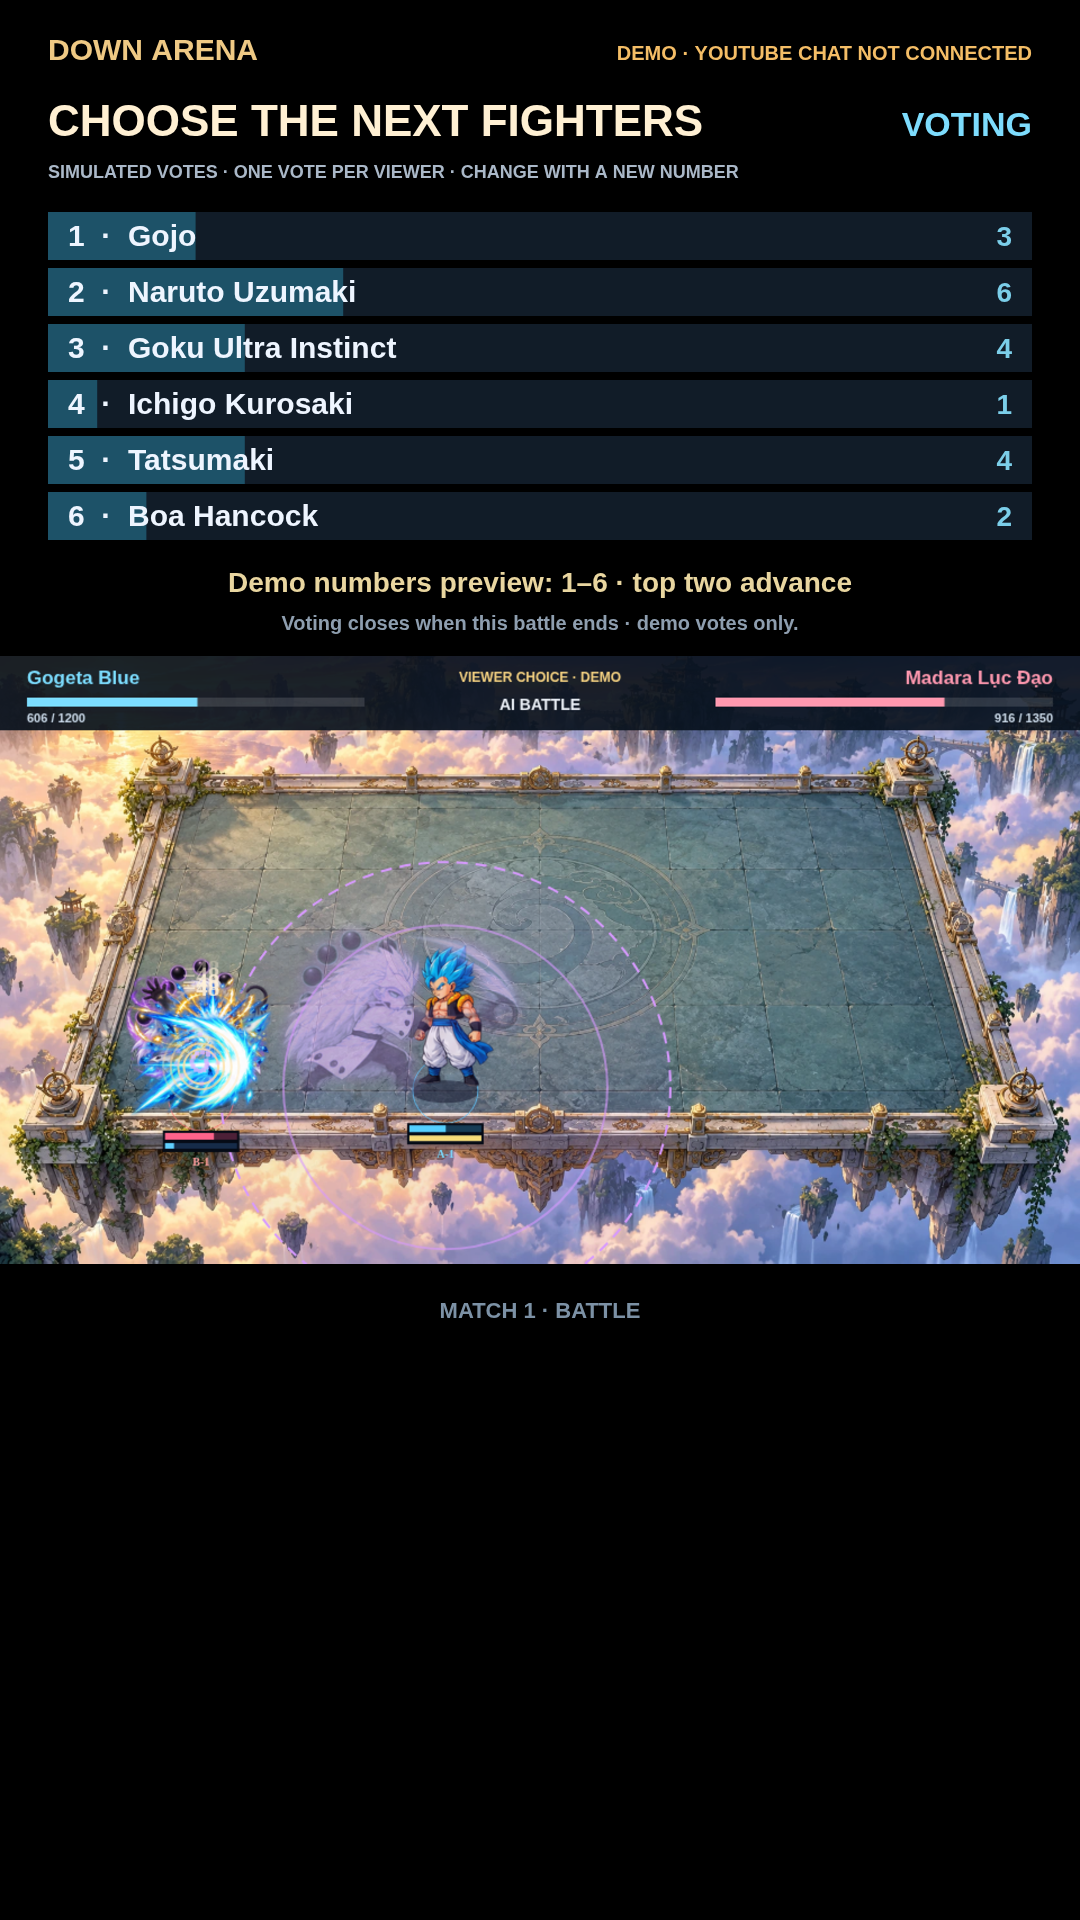
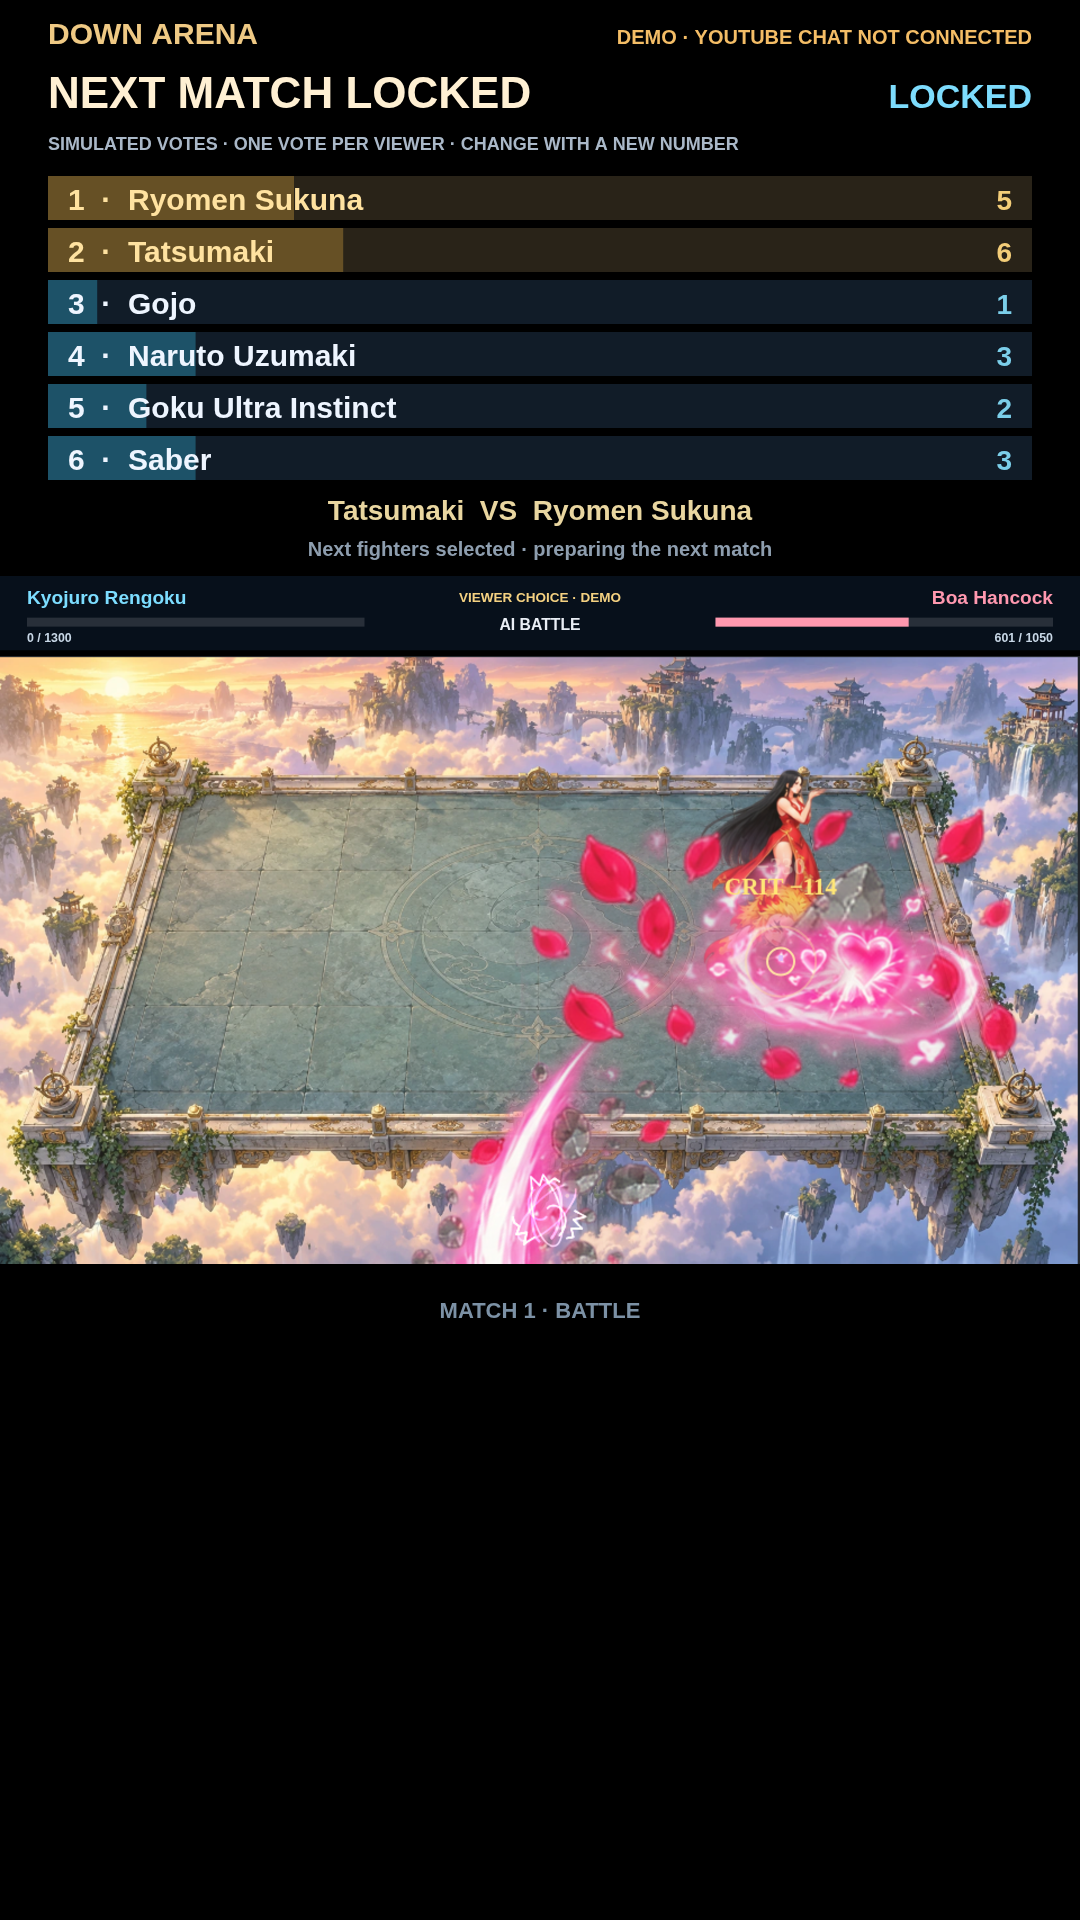
Move voting panel up and put fighter health above the arena

diff --git a/dist/src/app.js b/dist/src/app.js
@@ -147,7 +147,7 @@ function render(){if(tournament.portrait)dialogueCtx.clearRect(0,0,960,540);cons
  if(!scene||resultAge<.32)for(const shot of duel.shots)drawShot(shot,$('vfx').checked);
  if($('vfx').checked)for(const burst of bursts)drawBurst(burst);
 
- for(const e of fx){ctx.globalAlpha=Math.max(0,e.life/.65);ctx.font='bold 21px Segoe UI';ctx.textAlign='center';ctx.fillStyle=e.healing?'#7dff9c':e.critical?'#ffe36b':e.blocked?'#83dfff':'#fff1d8';ctx.fillText(e.label?e.value:(e.critical?'CRIT −':e.blocked?'BLOCK −':'−')+e.value,e.x,e.y-85-(.65-e.life)*45);circle(e.x,e.y-25,12+(.65-e.life)*50,'#ffdfa0',2);}ctx.globalAlpha=1;for(const p of particles){ctx.globalAlpha=p.life/p.max;ctx.fillStyle=p.color;ctx.fillRect(p.x-2,p.y-2,4,4);}ctx.globalAlpha=1;if(!scene||resultAge<FINISH_FREEZE_SECONDS)drawFighterBars(ctx,duel);ctx.restore();if(!scene){drawMadaraEntrance(ctx,images,renderDuel,{width:960,height:canvas.height,offsetY:tournament.portrait?PORTRAIT_SCENE_OFFSET:0});drawNarutoV2Cinematic(screenCtx,images,renderDuel,$('ultimateReduce').checked);drawGogetaBlueCinematic(screenCtx,images,renderDuel);drawMadaraCinematic(screenCtx,images,renderDuel,$('ultimateReduce').checked);drawRengokuCinematic(screenCtx,images,renderDuel,$('ultimateReduce').checked);drawSukunaCinematic(screenCtx,images,renderDuel);drawGojoCinematic(screenCtx,images,renderDuel,$('ultimateReduce').checked);drawBoaCinematic(screenCtx,images,renderDuel,$('ultimateReduce').checked);drawTatsuCinematic(screenCtx,images,renderDuel,$('ultimateReduce').checked);drawSaberCinematic(screenCtx,images,renderDuel,$('ultimateReduce').checked);drawUltraCinematic(screenCtx,images,renderDuel,$('ultimateReduce').checked);drawJinwooCinematic(screenCtx,images,renderDuel,$('ultimateReduce').checked);drawIchigoCinematic(screenCtx,images,renderDuel,$('ultimateReduce').checked);drawTeamUltimateCinematic(screenCtx,images,renderDuel,names,$('ultimateReduce').checked);}if(scene&&!tournament.portrait)drawVictoryScreen(ctx,scene,victory,names);}
+ for(const e of fx){ctx.globalAlpha=Math.max(0,e.life/.65);ctx.font='bold 21px Segoe UI';ctx.textAlign='center';ctx.fillStyle=e.healing?'#7dff9c':e.critical?'#ffe36b':e.blocked?'#83dfff':'#fff1d8';ctx.fillText(e.label?e.value:(e.critical?'CRIT −':e.blocked?'BLOCK −':'−')+e.value,e.x,e.y-85-(.65-e.life)*45);circle(e.x,e.y-25,12+(.65-e.life)*50,'#ffdfa0',2);}ctx.globalAlpha=1;for(const p of particles){ctx.globalAlpha=p.life/p.max;ctx.fillStyle=p.color;ctx.fillRect(p.x-2,p.y-2,4,4);}ctx.globalAlpha=1;if(!tournament.voteMode&&(!scene||resultAge<FINISH_FREEZE_SECONDS))drawFighterBars(ctx,duel);ctx.restore();if(!scene){drawMadaraEntrance(ctx,images,renderDuel,{width:960,height:canvas.height,offsetY:tournament.portrait?PORTRAIT_SCENE_OFFSET:0});drawNarutoV2Cinematic(screenCtx,images,renderDuel,$('ultimateReduce').checked);drawGogetaBlueCinematic(screenCtx,images,renderDuel);drawMadaraCinematic(screenCtx,images,renderDuel,$('ultimateReduce').checked);drawRengokuCinematic(screenCtx,images,renderDuel,$('ultimateReduce').checked);drawSukunaCinematic(screenCtx,images,renderDuel);drawGojoCinematic(screenCtx,images,renderDuel,$('ultimateReduce').checked);drawBoaCinematic(screenCtx,images,renderDuel,$('ultimateReduce').checked);drawTatsuCinematic(screenCtx,images,renderDuel,$('ultimateReduce').checked);drawSaberCinematic(screenCtx,images,renderDuel,$('ultimateReduce').checked);drawUltraCinematic(screenCtx,images,renderDuel,$('ultimateReduce').checked);drawJinwooCinematic(screenCtx,images,renderDuel,$('ultimateReduce').checked);drawIchigoCinematic(screenCtx,images,renderDuel,$('ultimateReduce').checked);drawTeamUltimateCinematic(screenCtx,images,renderDuel,names,$('ultimateReduce').checked);}if(scene&&!tournament.portrait)drawVictoryScreen(ctx,scene,victory,names);}
 const tournament=new VotingArenaUI({$,names,unlock:()=>{audio.unlock();music.unlock();},setLiveView:active=>document.body.classList.toggle('live-view',active),setPortraitView:active=>document.body.classList.toggle('portrait-view',active),setVoteView:active=>{document.body.classList.toggle('vote-view',active);document.body.classList.toggle('portrait-view',active||!!(tournament.clean&&tournament.portrait));},settings:()=>({stats:normalizeStats(appliedStats),seed:$('seed').value||'DOWN-001',arenaScale,hpMultiplier,teamUltimateEnabled}),reset,toggleBattle,duel:()=>duel,resultAge:()=>resultAge,ready:()=>assetsReady,stop:()=>{audio.stop();music.pause();running=false;acc=0;},portraitURL:id=>'assets/ui/portraits/'+id+'.webp'});
 function loop(t){const elapsed=Math.min((t-last)/1000||0,.1);last=t;
  const visualDt=(running?elapsed*Number($('speed').value):duel.result?(tournament.live&&tournament.paused?0:resultAge<FINISH_FREEZE_SECONDS?0:elapsed*.65):0);visualClock+=visualDt;for(const ghost of ghosts)ghost.life-=visualDt;ghosts=ghosts.filter(g=>g.life>0);for(const burst of bursts)burst.life-=visualDt;bursts=bursts.filter(b=>b.life>0);

diff --git a/dist/src/render/viewer-vote.js b/dist/src/render/viewer-vote.js
@@ -1,27 +1,27 @@
-export const VOTE_LAYOUT=Object.freeze({width:540,height:960,arenaY:328,arenaHeight:540*9/16});
+export const VOTE_LAYOUT=Object.freeze({width:540,height:960,hudY:288,hudHeight:40,arenaY:328,arenaHeight:540*9/16});
 function text(ctx,value,x,y,size,color='#e9eef5',align='left',width=490){ctx.fillStyle=color;ctx.font=`600 ${size}px Segoe UI,Arial`;ctx.textAlign=align;ctx.fillText(value,x,y,width);}
 export function drawVoteBroadcast(ctx,u,scene){ctx.save();ctx.fillStyle='#000';ctx.fillRect(0,0,540,960);const v=u.ballot;
- text(ctx,'DOWN ARENA',24,30,15,'#efc984');text(ctx,'DEMO · YOUTUBE CHAT NOT CONNECTED',516,30,10,'#f4bd66','right',360);
- text(ctx,v?.locked?'NEXT MATCH LOCKED':'CHOOSE THE NEXT FIGHTERS',24,68,22,'#fff0d3');
- text(ctx,v?.locked?'LOCKED':'VOTING',516,68,17,'#7ddcfd','right',95);
- text(ctx,'SIMULATED VOTES · ONE VOTE PER VIEWER · CHANGE WITH A NEW NUMBER',24,89,9,'#aab8c8');
+ text(ctx,'DOWN ARENA',24,22,15,'#efc984');text(ctx,'DEMO · YOUTUBE CHAT NOT CONNECTED',516,22,10,'#f4bd66','right',360);
+ text(ctx,v?.locked?'NEXT MATCH LOCKED':'CHOOSE THE NEXT FIGHTERS',24,54,22,'#fff0d3');
+ text(ctx,v?.locked?'LOCKED':'VOTING',516,54,17,'#7ddcfd','right',95);
+ text(ctx,'SIMULATED VOTES · ONE VOTE PER VIEWER · CHANGE WITH A NEW NUMBER',24,75,9,'#aab8c8');
  const rows=v?.rows||[],total=v?.votes.size||0;
  for(const [i,row] of rows.entries()){
-  const y=106+i*28,win=v?.winners?.includes(row.id),color=win?'#f3cd78':'#7bcee9';
-  ctx.fillStyle=win?'#292318':'#111c28';ctx.fillRect(24,y,492,24);
-  ctx.fillStyle=win?'#665025':'#1d5268';ctx.fillRect(24,y,492*(total?row.count/total:0),24);
+  const y=88+i*26,win=v?.winners?.includes(row.id),color=win?'#f3cd78':'#7bcee9';
+  ctx.fillStyle=win?'#292318':'#111c28';ctx.fillRect(24,y,492,22);
+  ctx.fillStyle=win?'#665025':'#1d5268';ctx.fillRect(24,y,492*(total?row.count/total:0),22);
   text(ctx,`${row.number}  ·  ${row.name}`,34,y+17,15,win?'#ffe2a0':'#eef5ff','left',390);
   text(ctx,String(row.count),506,y+17,14,color,'right',55);
  }
  const status=!v?'Start Live Arena to open voting.':u.paused?'PAUSED':v?.locked?`${u.h.names[v.winners[0]]}  VS  ${u.h.names[v.winners[1]]}`:'Demo numbers preview: 1–'+rows.length+' · top two advance';
- text(ctx,status,270,296,14,'#e9d6a0','center',492);
- text(ctx,v?.locked?(u.lastDraw?'Draw: current pair rematches; voting reopens':total?'Next fighters selected · preparing the next match':'No votes: seeded random tiebreak'):'Voting closes when this battle ends · demo votes only.',270,315,10,'#8e9eaf','center',492);
- if(scene&&u.active)ctx.drawImage(scene,0,VOTE_LAYOUT.arenaY,540,VOTE_LAYOUT.arenaHeight);else text(ctx,'START LIVE ARENA',270,490,23,'#8faac0','center');
+ text(ctx,status,270,260,14,'#e9d6a0','center',492);
+ text(ctx,v?.locked?(u.lastDraw?'Draw: current pair rematches; voting reopens':total?'Next fighters selected · preparing the next match':'No votes: seeded random tiebreak'):'Voting closes when this battle ends · demo votes only.',270,278,10,'#8e9eaf','center',492);
+ if(scene&&u.active){ctx.save();ctx.translate(0,VOTE_LAYOUT.hudY);ctx.scale(540/960,540/960);drawVoteMatchHUD(ctx,u);ctx.restore();ctx.drawImage(scene,0,VOTE_LAYOUT.arenaY,540,VOTE_LAYOUT.arenaHeight);}else text(ctx,'START LIVE ARENA',270,490,23,'#8faac0','center');
  text(ctx,`MATCH ${u.matchNumber||1} · ${u.phase==='waiting'?'WAITING FOR NEXT MATCH':u.phase.toUpperCase()}`,270,659,11,'#7c91a5','center',492);
  // Keep the remaining lower area black for the operator's OBS layout.
  ctx.restore();}
 export function drawVoteMatchHUD(ctx,u){ctx.save();ctx.fillStyle='#08111deb';ctx.fillRect(0,0,960,66);const fighters=u.h.duel().fighters;
  for(const [i,f] of fighters.entries()){text(ctx,u.h.names[f.id],i?936:24,25,17,i?'#ff98af':'#7cddff',i?'right':'left',340);const x=i?636:24;ctx.fillStyle='#ffffff22';ctx.fillRect(x,37,300,8);ctx.fillStyle=i?'#ff98af':'#7cddff';ctx.fillRect(x,37,300*Math.max(0,f.hp/f.max),8);text(ctx,`${Math.max(0,Math.ceil(f.hp))} / ${f.max}`,i?936:24,59,11,'#c8d7e6',i?'right':'left',300);}
  text(ctx,'VIEWER CHOICE · DEMO',480,23,12,'#f4d181','center',280);text(ctx,u.paused?'PAUSED':u.phase==='intro'?`STARTS IN ${Math.max(1,Math.ceil(5-u.age))}`:u.phase==='waiting'?'MATCH COMPLETE':'AI BATTLE',480,48,14,'#e9eef5','center',280);
- if(u.paused){ctx.fillStyle='#07101cbb';ctx.fillRect(0,66,960,474);text(ctx,'PAUSED',480,280,38,'#ffe0a0','center');}
  ctx.restore();}
+export function drawVoteMatchOverlay(ctx,u){if(!u.paused)return;ctx.save();ctx.fillStyle='#07101cbb';ctx.fillRect(0,0,960,540);text(ctx,'PAUSED',480,280,38,'#ffe0a0','center');ctx.restore();}

diff --git a/dist/index.html b/dist/index.html
@@ -1,4 +1,4 @@
-<!doctype html><html lang="vi"><head><meta charset="utf-8"><meta name="viewport" content="width=device-width,initial-scale=1"><title>Down Arena — Ichigo</title><link rel="stylesheet" href="style.css"></head><body class="mode-home"><div id="buildVersion" style="position:fixed;right:8px;bottom:8px;z-index:999;padding:6px 10px;background:#102736;color:#74e4ff;font:12px Arial;border:1px solid #32728a;border-radius:6px">FULL HD OBS / 12 CHARACTERS</div><div id="bootNotice" role="status" style="position:fixed;top:8px;left:8px;right:8px;z-index:1000;padding:12px;background:#263448;color:#fff;font:13px Arial">Đang mở đấu trường… Nếu màn hình này không đổi, hãy tải tệp về và mở bằng Chrome hoặc Edge.</div><noscript><p style="padding:20px;background:#fff;color:#111">Game cần JavaScript. Bản xem nhanh: tải HTML và mở bằng Chrome hoặc Edge. Bản đầy đủ: chạy Start_Game.cmd rồi mở địa chỉ localhost được hiển thị.</p></noscript><script>window.showArenaError=function(message){var box=document.getElementById("bootNotice");if(box){box.style.display="block";box.style.background="#6c2c25";box.textContent="Không khởi tạo được game: "+message+". Hãy tải tệp về mở bằng Chrome/Edge, hoặc gửi dòng lỗi này để sửa.";}};window.addEventListener("error",function(e){window.showArenaError(e.message||"Lỗi tải nội dung");});</script><section id="modeHome" class="mode-home-screen" aria-labelledby="modeHomeTitle">
+<!doctype html><html lang="vi"><head><meta charset="utf-8"><meta name="viewport" content="width=device-width,initial-scale=1"><title>Down Arena — Ichigo</title><link rel="stylesheet" href="style.css"></head><body class="mode-home"><div id="buildVersion" style="position:fixed;right:8px;bottom:8px;z-index:999;padding:6px 10px;background:#102736;color:#74e4ff;font:12px Arial;border:1px solid #32728a;border-radius:6px">LIVE HUD OUTSIDE ARENA</div><div id="bootNotice" role="status" style="position:fixed;top:8px;left:8px;right:8px;z-index:1000;padding:12px;background:#263448;color:#fff;font:13px Arial">Đang mở đấu trường… Nếu màn hình này không đổi, hãy tải tệp về và mở bằng Chrome hoặc Edge.</div><noscript><p style="padding:20px;background:#fff;color:#111">Game cần JavaScript. Bản xem nhanh: tải HTML và mở bằng Chrome hoặc Edge. Bản đầy đủ: chạy Start_Game.cmd rồi mở địa chỉ localhost được hiển thị.</p></noscript><script>window.showArenaError=function(message){var box=document.getElementById("bootNotice");if(box){box.style.display="block";box.style.background="#6c2c25";box.textContent="Không khởi tạo được game: "+message+". Hãy tải tệp về mở bằng Chrome/Edge, hoặc gửi dòng lỗi này để sửa.";}};window.addEventListener("error",function(e){window.showArenaError(e.message||"Lỗi tải nội dung");});</script><section id="modeHome" class="mode-home-screen" aria-labelledby="modeHomeTitle">
 <div class="mode-home-content"><img class="arena-wordmark" src="assets/ui/titles/down_arena.webp" alt="Down Arena"><p class="eyebrow">DOWN ARENA · AUTO BATTLE</p><h1 id="modeHomeTitle">Chọn đấu trường<br><em>của bạn.</em></h1><p class="mode-home-copy">Tạo trận đấu, chinh phục giải đấu hoặc mở đấu trường Live liên tục.</p>
 <div id="modeChoices" class="mode-cards">
 <button id="chooseBattle" class="mode-card"><span class="mode-card-number">01 / BATTLE</span><strong>Đấu thường</strong><span>Tự chọn nhân vật, đấu đôi, tự do 2–5 người hoặc đấu đội tối đa 5vs5.</span><b>Thiết lập trận đấu →</b></button>

diff --git a/dist/src/voting-arena.js b/dist/src/voting-arena.js
@@ -3,7 +3,7 @@ import {TournamentUI} from './tournament-ui.js';
 import {ViewerVote,ViewerMatch} from './engine/viewer-vote.js';
 import {drawEntrants} from './engine/tournament.js';
 import {LIVE_TIMINGS} from './live-arena.js';
-import {drawVoteBroadcast,drawVoteMatchHUD} from './render/viewer-vote.js';
+import {drawVoteBroadcast,drawVoteMatchOverlay} from './render/viewer-vote.js';
 
 export class VotingArenaUI extends VerticalArenaUI{
  constructor(h){super(h);this.matchNumber=0;this.voteRound=0;this.demoAge=0;this.demoSerial=0;this.ballot=null;
@@ -39,7 +39,7 @@ export class VotingArenaUI extends VerticalArenaUI{
   this.$('liveAspect').textContent='9:16 / sàn 16:9';this.$('liveDescription').textContent='Bảng tên 1–6 phía trên, trận ngang ở giữa, phần dưới đen. Phiếu mô phỏng; chưa kết nối chat YouTube. Bình chọn đến khi trận hiện tại kết thúc, hai người nhiều phiếu nhất đấu tiếp; hòa chọn ngẫu nhiên theo seed.';
   this.$('liveNotice').textContent=this.active?`Trận ${this.matchNumber||1} · ${this.totalMatches||0} trận xong · PHIẾU MÔ PHỎNG`:'Chọn Bắt đầu Live Arena để mở bảng bình chọn thử.';
  }
- draw(ctx,clock){if(!this.voteMode)return super.draw(ctx,clock);if(this.active)drawVoteMatchHUD(ctx,this);}
+ draw(ctx,clock){if(!this.voteMode)return super.draw(ctx,clock);if(this.active)drawVoteMatchOverlay(ctx,this);}
  presentVotes(ctx,scene){drawVoteBroadcast(ctx,this,scene);}
  leave(){super.leave();this.ballot=null;this.matchNumber=0;this.voteRound=0;}
 }

diff --git a/docs/OBS.md b/docs/OBS.md
@@ -7,7 +7,7 @@ Mở **OBS → Sources → + → Browser** và dùng:
 
 Đặt **Width1080**, **Height1920**, rồi **Transform → Fit to Screen** (Ctrl+F). Base/Output của OBS cũng1080×1920. Tắt nguồn Window Capture cũ để không chồng hai bản game. Browser Source tự chọn chế độ và bắt đầu Live Arena; không tự bắt đầu phát YouTube. Nếu âm thanh chưa chạy, nhấp phải nguồn → Interact → bấm một lần vào game để mở âm thanh theo chính sách trình duyệt. Chỉ thu âm game một đường để tránh vọng.
 
-Canvas xuất trực tiếp1080×1920 với hệ tọa độ bố cục540×960 và transform2×. Chữ được raster hóa ở kích thước đầu ra; cảnh trận960×540 được ghép thẳng vào vùng1080px, tránh bước giảm xuống540px rồi phóng lên1080px. CSS vẫn vừa màn hình9:16. Không thay logic trận, vị trí bảng bình chọn hoặc vùng đen.
+Canvas xuất trực tiếp1080×1920 với hệ tọa độ bố cục540×960 và transform2×. Chữ được raster hóa ở kích thước đầu ra; cảnh trận960×540 được ghép thẳng vào vùng1080px, tránh bước giảm xuống540px rồi phóng lên1080px. CSS vẫn vừa màn hình9:16. Bảng bình chọn được kéo lên để chừa dải tên/HP riêng ngay trên sân. Sân không vẽ chồng HUD hoặc thanh HP nhỏ dưới chân trong chế độ bình chọn; logic trận giữ nguyên.
 
 Nguồn Chrome nhỏ được Window Capture rồi phóng lớn trong OBS vẫn có thể mất nét; dùng Browser Source với đúng kích thước thay cho cách đó. Bitrate không khắc phục được chữ đã mờ ngay tại nguồn. Hiện bảng bình chọn vẫn dùng phiếu mô phỏng, chưa lấy bình luận YouTube.
 

diff --git a/docs/VIEWER_VOTE.md b/docs/VIEWER_VOTE.md
@@ -4,7 +4,7 @@ Open the game, choose **Live → Bình chọn đối thủ → Bắt đầu Live
 
 ## Layout and OBS
 
-The output canvas is540×960 (9:16). Six text-only candidate rows occupy the top; the original960×540 horizontal battle is fitted to540×303.75 at y328. The remaining lower area stays black. There are no candidate portraits.
+The output canvas is1080×1920 (9:16), using540×960 logical units at2×. Six text-only candidate rows sit higher at y88–240. Voting status ends at y278; a dedicated fighter-name/HP strip occupies y288–328, outside the arena. The original960×540 horizontal battle is fitted to540×303.75 at y328, with no match HUD or foot-health bars painted over the field. The remaining lower area stays black. There are no candidate portraits.
 
 In OBS use a1080×1920 canvas and a Browser Source viewport1080×1920. Open the same game URL, select this mode and start Live. The browser output fits the portrait canvas directly. Desktop Esc opens operator controls; on a touchscreen, tap **Điều khiển**. That touch-only button is hidden on desktop capture.
 

diff --git a/PROJECT_HANDOFF.md b/PROJECT_HANDOFF.md
@@ -1,3 +1,7 @@
+## Voting feed — separate health strip
+
+Compact/move voting rows upward to logical y88–240; status at260/278. Draw name/HP HUD directly in final portrait composition at y288, outside battlefield starting y328. Scene canvas now contains only battle/pause overlay; hide duplicate foot health bars only for voteMode. Full HD1080×1920 and original field size preserved. Existing vote scheduler/UI tests pass; browser captures `docs/obs-qa/vote.png`, `vote-paused.png`, `hud-results.json`.
+
 ## OBS Full HD feed
 
 Portrait backing buffer1080×1920,2× transform with unchanged540×960 logical composition. Explicit `?obs=vote` / `?obs=vertical` auto-selects and starts game Live via existing menu/controller after initialization; plain URL unchanged. One pointer gesture unlocks audio if browser policy requires. Browser Source viewport1080×1920 avoids capturing a small CSS-scaled Chrome window. Native-resolution browser QA and existing UI/vote/vertical suites pass. See `docs/OBS.md`, `docs/obs-qa/results.json`.
